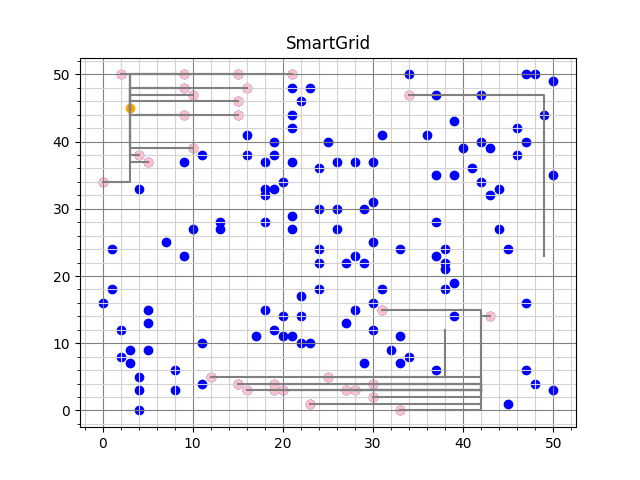
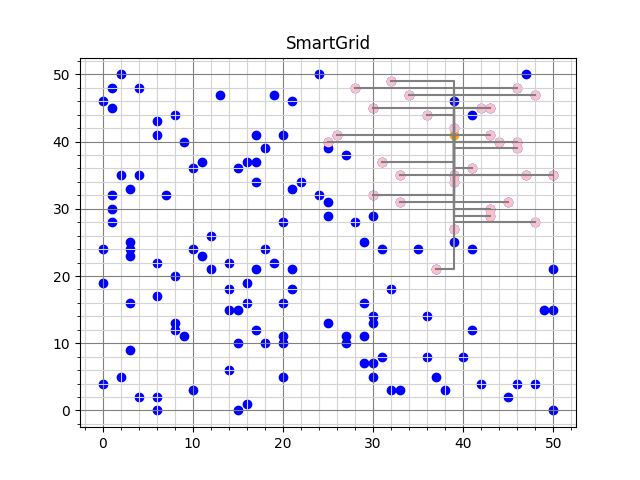
visualaise apart

diff --git a/main.py b/main.py
@@ -56,49 +56,59 @@ if __name__ == "__main__":
     #     pickle.dump(best_base, handle)
     
     # --------------------------- original greedy--------------------------
-    # greedy1_costs = list()
-    # greedy1 = original_greedy.Greedy(grid1)
-    # greedy1.run()
-    # best_greedy = copy.deepcopy(greedy1)
+    greedy1_costs = list()
+    greedy1 = original_greedy.Greedy(grid1)
+    greedy1.run()
+    count = 0
+    best_greedy = copy.deepcopy(greedy1)
 
-    # for i in range(100):
-    #     greedy1 = original_greedy.Greedy(grid1)
-    #     greedy1.run()
-    #     # print(f"i: {i}, cost: {best_greedy.grid.calc_cost()}")
+    for i in range(100):
+        greedy1 = original_greedy.Greedy(grid1)
+        greedy1.run()
+        # print(f"i: {i}, cost: {best_greedy.grid.calc_cost()}")
 
-    #     if greedy1.grid.calc_cost() < best_greedy.grid.calc_cost():
-    #         best_greedy = copy.deepcopy(greedy1)
+        if greedy1.grid.calc_cost() < best_greedy.grid.calc_cost():
+            best_greedy = copy.deepcopy(greedy1)
+        if greedy1.grid.is_valid():
+            count += 1
 
-    #     greedy1_costs.append(greedy1.grid.calc_cost())
+        greedy1_costs.append(greedy1.grid.calc_cost())
+    print(count)
 
-    # visualise_costs.visualise_costs(greedy1_costs, "greedy1")
+    visualise_costs.visualise_costs(greedy1_costs, "greedy1")
+    # for battery in best_greedy.grid.batteries.values():
+    #     print('battery:', battery.id, battery.get_cum_output(), battery.capacity_left())
     # file_name = f"SmartGrid/data/solutions/best_greedy.pickle"
 
     # with open(file_name, 'wb') as handle:
     #     pickle.dump(best_greedy, handle)
 
     # --------------------------- greedy 2 --------------------------
-    greedy2_costs = list()
-    count = 0
-    best_cost = 70000
-    for i in range(100):
-        greedy2 = greedy.Greedy(grid1)
-        greedy2.run_greedy()
-        # fixed_greedy = fix_greedy.Fix_greedy(greedy2.grid)
-        # fixed_greedy.run3()
-        if greedy2.grid.is_valid():
-            count += 1
-            if greedy2.grid.calc_cost() < best_cost:
-                best_grid = greedy2.grid
-                best_cost = greedy2.grid.calc_cost()
-        greedy2_costs.append(greedy2.grid.calc_cost())
-    print(count)
-    print(best_cost)
-    for battery in best_grid.batteries.values():
-        print('battery:', battery.id, battery.get_cum_output(), battery.capacity_left())
-    #     for house in battery.houses.values():
-    #         print(house.id)
-    visualise_costs.visualise_costs(greedy2_costs, "greedy2")
+    # greedy2_costs = list()
+    # count = 0
+    # best_cost = 70000
+    # for i in range(100):
+    #     greedy2 = greedy.Greedy(grid1)
+    #     greedy2.run_greedy()
+    #     # fixed_greedy = fix_greedy.Fix_greedy(greedy2.grid)
+    #     # fixed_greedy.run3()
+    #     if greedy2.grid.is_valid():
+    #         count += 1
+    #         if greedy2.grid.calc_cost() < best_cost:
+    #             best_grid = greedy2.grid
+    #             best_cost = greedy2.grid.calc_cost()
+    #     greedy2_costs.append(greedy2.grid.calc_cost())
+    # print(count)
+    # print(best_cost)
+    # # for battery in best_grid.batteries.values():
+    # #     print('battery:', battery.id, battery.get_cum_output(), battery.capacity_left())
+    # #     if battery.id == 1:
+    # #         for house in battery.houses.values():
+    # #             print(house.cable.x, house.cable.y)
+    # visualise_costs.visualise_costs(greedy2_costs, "greedy2")
+
+    # --------------------------- visualisation --------------------------
+    visualise_cables.visualise_apart(best_greedy.grid, district_number)
 
         # --------------------------- greedy - each house to closest battery--------------------------
     # greedy3_costs = list()
@@ -114,21 +124,6 @@ if __name__ == "__main__":
     #     greedy3_costs.append(greedy3.grid.calc_cost())
     # print(count)
     # visualise_costs.visualise_costs(greedy2_costs, "greedy2")
-
-    # --------------------------- greedy cheap --------------------------
-    # greedy3_costs = list()
-    # count = 0
-    # for i in range(100):
-    #     greedy3 = cheapest_greedy.Greedy_cheapest(grid1)
-    #     greedy3.run_greedy()
-    #     # fixed_greedy = fix_greedy.Fix_greedy(greedy2.grid)
-    #     # fixed_greedy.run3()
-    #     if greedy3.grid.is_valid():
-    #          print("hurray")
-    #          count += 1
-    #     greedy3_costs.append(greedy3.grid.calc_cost())
-    # print(count)
-    # visualise_costs.visualise_costs(greedy3_costs, "greedy3")
 
 
     # greedy2 = greedy.Greedy(empty_grid)
@@ -161,8 +156,6 @@ if __name__ == "__main__":
     # with open(file_name, 'wb') as handle:
     #     pickle.dump(best_greedy, handle)
 
-    # --------------------------- visualisation --------------------------
-    visualise_cables.visualise_apart(best_grid, district_number)
     # --------------------------- Hill Climber ---------------------------------
     # best_greedy.grid.print_cum_output_per_battery()
 

diff --git a/code/visualisations/visualise_cables.py b/code/visualisations/visualise_cables.py
@@ -53,31 +53,33 @@ def visualise(grid, district_number):
     plt.savefig("docs/cable_visualisation.png")
 
 def visualise_apart(grid, district_number):
-        # plot battries and houses
-    for battery in grid.batteries.values():
-        # load data files
-        district_number = district_number
-        battery_file = (f"data/Huizen&Batterijen/district_{district_number}/district-{district_number}_batteries.csv")
-        house_file = (f"data/Huizen&Batterijen/district_{district_number}/district-{district_number}_houses.csv")
+    """
+    Visualise the connections of each battery in separate grids
+    """
 
+    for battery in grid.batteries.values():
+
+        district_number = district_number
+        
+        # Load house files
+        house_file = (f"data/Huizen&Batterijen/district_{district_number}/district-{district_number}_houses.csv")
         dfhouses = pd.read_csv(house_file)
         dfhouses.plot(kind='scatter', x='x', y='y')
 
-
-
-        # clear the figure
+        # Clear the figure
         plt.clf()
 
-        # plot grid
+        # Plot gridlines
         plt.title('SmartGrid')
         plt.grid(which='minor', color='lightgrey')
         plt.grid(which='major', color='grey')
         plt.minorticks_on()
 
-
+        # Plot each house and battery in the grid
         plt.scatter(battery.x, battery.y, color='orange', label = "Batteries")
         plt.scatter(dfhouses.x, dfhouses.y, color='blue', label = "Houses")
 
+        # Give the connections of each battery a different colour
         if battery.id == 0:
             gridcolor = "blue"
         elif battery.id == 1: 
@@ -89,7 +91,7 @@ def visualise_apart(grid, district_number):
         elif battery.id == 4: 
             gridcolor = "gray"
 
-        # plot cables 
+        # Plot cables 
         for house in battery.houses.values():
             plt.scatter(house.x, house.y, color="pink")
             plt.plot(house.cable.x, house.cable.y, color=gridcolor, linestyle="-")

diff --git a/code/algorithms/greedy.py b/code/algorithms/greedy.py
@@ -39,13 +39,12 @@ class Greedy:
         If the battery they're connected to now is full, replace that house to next closest battery.
         """
 
-        #battery_numbers = [*range(0,len(self.grid.batteries.values()))]
         random.shuffle(self.grid.batteries)
 
         for battery in self.grid.batteries.values():
-            # Randomise the order of the batteries
-            #battery = self.grid.batteries[(random.choice(battery_numbers))]
+
             while battery.capacity_reached():
+
                 # Make a dict of distances from houses to their next closest battery
                 next_closest_battery = {}
                 for house in battery.houses:
@@ -90,7 +89,6 @@ class Greedy:
         self.battery_distance_list()
 
         # If battery capacity is full, reconnect houses with the shortest distance to the next battery
-        # while any(battery.capacity_reached() in self.grid.batteries for battery in self.grid.batteries.values()):
         for i in range(100):
 
             self.replace_connections()

diff --git a/code/classes/cable.py b/code/classes/cable.py
@@ -62,6 +62,7 @@ class Cable():
         self.x = x
         self.y = y
 
+
     def lay_cable_to_closest_cable(self):
         """
         cables are now allowed to be attached to eachother
